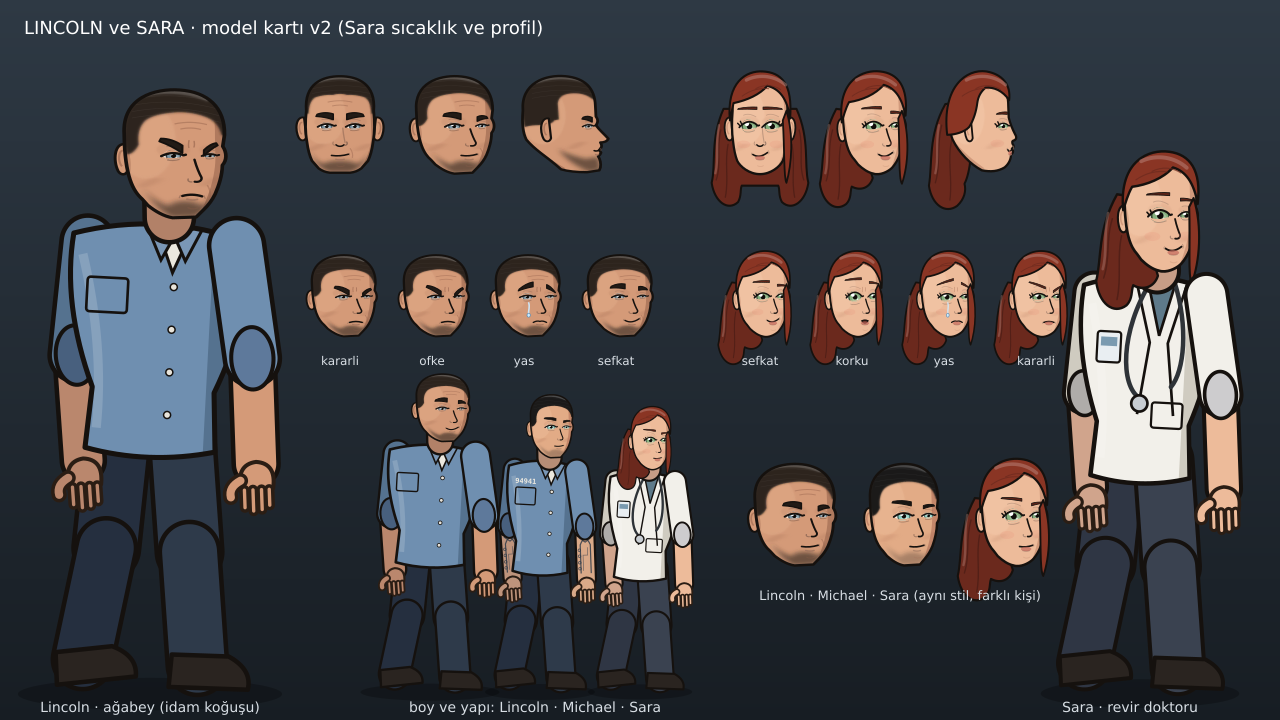
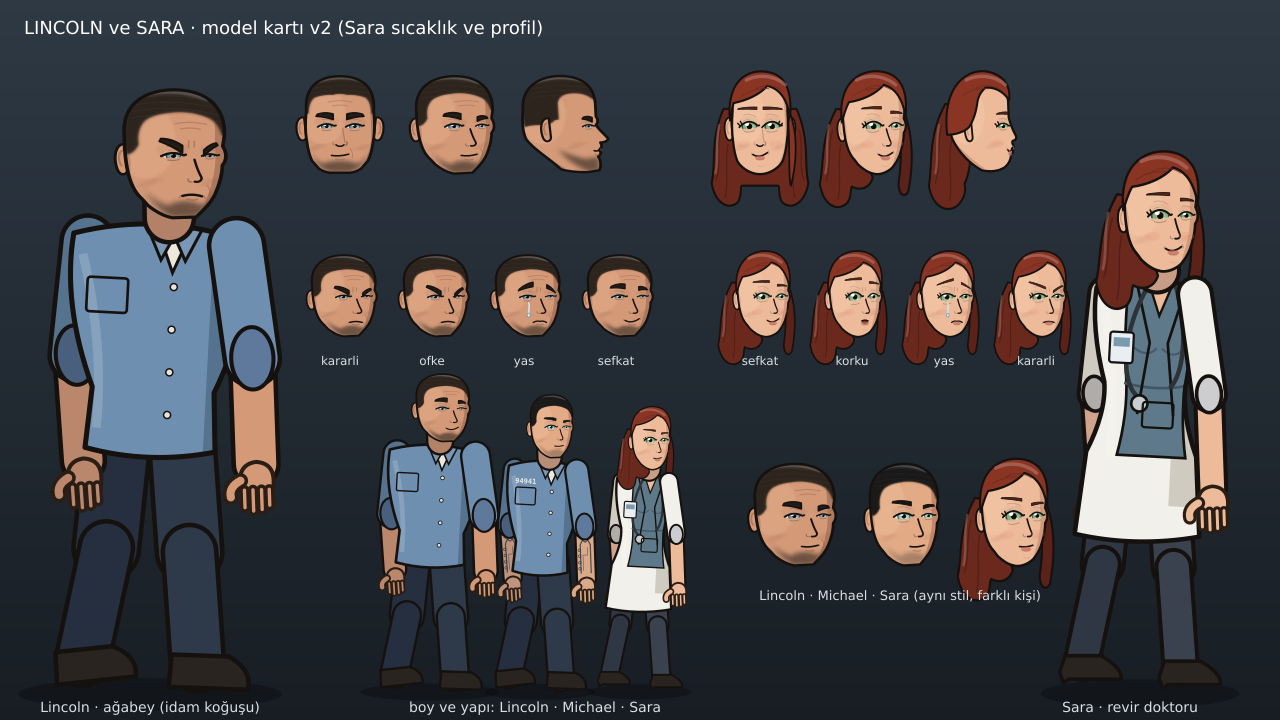
F3: Sara v3 (kadın bedeni, tam görünen yüz); prolog örgüsü onay bekliyor
Claude-Session: https://claude.ai/code/session_01ADfUkHjNCYiLn7Tbp4iBbS

diff --git a/projeler/michael-scofield/karakter.py b/projeler/michael-scofield/karakter.py
@@ -295,13 +295,19 @@ def figur2(spec, ifade="odak", poz=None, plan=False, numara_goster=True, el_on_e
     g = math.radians(p["govde"])
     def tw(lx, ly):  # gövde yerelinden dünyaya (pelvis merkezli, yukarı -y)
         return hip[0] + lx * math.cos(g) - ly * math.sin(g), hip[1] + lx * math.sin(g) + ly * math.cos(g)
-    sh_on, sh_ark = tw(64 * br * s, -TOR + 14 * s), tw(-60 * br * s, -TOR + 18 * s)
+    FEM = spec.get("female"); fo = 0.8 if FEM else 1.0      # omuz genişliği
+    fk = 0.78 if FEM else 1.0; fb = 0.7 if FEM else 1.0        # kol / bacak kalınlığı
+    sh_on, sh_ark = tw(64 * br * s * fo, -TOR + 14 * s), tw(-60 * br * s * fo, -TOR + 18 * s)
     neck = tw(8 * s, -TOR - 10 * s)
     o = [f'<ellipse cx="0" cy="4" rx="{110*br*s:.0f}" ry="16" fill="#000" opacity="0.25"/>']
     def bacak(side, t, k, ton):
-        hx, hy = tw(side * 26 * br * s, 0)
+        hx, hy = tw(side * 26 * br * s * (1.12 if FEM else 1.0), 0)
         kx, ky = _uc(hx, hy, t, TH); ax, ay = _uc(kx, ky, t - k, SN)
-        out = _seg((hx, hy), (kx, ky), 60 * s, ton) + _seg((kx, ky), (ax, ay), 54 * s, ton)
+        out = _seg((hx, hy), (kx, ky), 60 * s * fb, ton) + _seg((kx, ky), (ax, ay), 48 * s * fb, ton)
+        if FEM:  # kadın ayakkabısı: ince, sivri burunlu, alçak topuk
+            out += (f'<path d="M{ax-18*s:.0f},{ay-8:.0f} L{ax+22*s:.0f},{ay-8:.0f} Q{ax+46*s:.0f},{ay+6:.0f} {ax+44*s:.0f},{ay+18:.0f} L{ax-14*s:.0f},{ay+18:.0f} L{ax-20*s:.0f},{ay+22:.0f} L{ax-24*s:.0f},{ay+10:.0f} Z" '
+                    f'fill="{spec["shoe"]}" stroke="{INK}" stroke-width="4" stroke-linejoin="round"/>')
+            return out
         out += (f'<path d="M{ax-26*s:.0f},{ay-10:.0f} L{ax+30*s:.0f},{ay-10:.0f} Q{ax+54*s:.0f},{ay+2:.0f} {ax+50*s:.0f},{ay+22:.0f} L{ax-28*s:.0f},{ay+22:.0f} Z" '
                 f'fill="{spec["shoe"]}" stroke="{INK}" stroke-width="4.5" stroke-linejoin="round" transform="rotate({max(-25, min(25, (t-k)*0.5)):.0f} {ax:.0f} {ay:.0f})"/>')
         return out
@@ -323,11 +329,18 @@ def figur2(spec, ifade="odak", poz=None, plan=False, numara_goster=True, el_on_e
         return out
     # arka katmanlar
     o.append(bacak(-1, *p["bacak_arka"], shade(spec["pants"], 0.82)))
-    o.append(kol(sh_ark, *p["kol_arka"], 40 * s * br, sd, shade(sk, 0.88), p["el_arka"]))
+    o.append(kol(sh_ark, *p["kol_arka"], 40 * s * br * fk, sd, shade(sk, 0.88), p["el_arka"]))
     o.append(bacak(1, *p["bacak_on"], spec["pants"]))
     # gövde: V biçimli, yerel koordinatta çizilip döndürülür
     W1, W2 = 72 * br * s, 50 * br * s
-    torso = (f"M{-W1:.0f},{-TOR+10*s:.0f} Q{-W1-8:.0f},{-TOR*0.6:.0f} {-W2:.0f},{-TOR*0.2:.0f} L{-W2-4:.0f},{20*s:.0f} "
+    if FEM:
+        W1 = 58 * s; Wb = 40 * s; Wk = 60 * s; ET = 86 * s     # omuz, bel, kalça, önlük eteği
+        W2 = Wb
+        torso = (f"M{-W1:.0f},{-TOR+12*s:.0f} Q{-W1-4:.0f},{-TOR*0.72:.0f} {-Wb-4:.0f},{-TOR*0.42:.0f} Q{-Wb:.0f},{-TOR*0.25:.0f} {-Wk:.0f},{-6*s:.0f} "
+                 f"L{-Wk-8:.0f},{ET:.0f} Q0,{ET+12*s:.0f} {Wk+10:.0f},{ET-4:.0f} L{Wk+2:.0f},{-6*s:.0f} Q{Wb+4:.0f},{-TOR*0.25:.0f} {Wb+6:.0f},{-TOR*0.42:.0f} "
+                 f"Q{W1+8:.0f},{-TOR*0.72:.0f} {W1:.0f},{-TOR+12*s:.0f} Q0,{-TOR-14*s:.0f} {-W1:.0f},{-TOR+12*s:.0f} Z")
+    else:
+      torso = (f"M{-W1:.0f},{-TOR+10*s:.0f} Q{-W1-8:.0f},{-TOR*0.6:.0f} {-W2:.0f},{-TOR*0.2:.0f} L{-W2-4:.0f},{20*s:.0f} "
              f"Q0,{34*s:.0f} {W2+6:.0f},{18*s:.0f} L{W2+2:.0f},{-TOR*0.2:.0f} Q{W1+10:.0f},{-TOR*0.6:.0f} {W1:.0f},{-TOR+10*s:.0f} "
              f"Q0,{-TOR-16*s:.0f} {-W1:.0f},{-TOR+10*s:.0f} Z")
     _VID[0] += 1; tid = f"v{_VID[0]}"
@@ -336,7 +349,12 @@ def figur2(spec, ifade="odak", poz=None, plan=False, numara_goster=True, el_on_e
     if spec.get("stripes"):
         for k in range(9): inner.append(f'<rect x="-200" y="{-TOR+20*s+k*28*s:.0f}" width="400" height="{10*s:.0f}" fill="{spec["stripes"]}" opacity="0.9"/>')
     elif spec.get("female"):
-        inner.append(f'<path d="M-4,{-TOR-8:.0f} L14,{-TOR+62*s:.0f} L32,{-TOR-8:.0f} Z" fill="{spec["under"]}" stroke="{INK}" stroke-width="3"/>'
+        bl = spec["under"]
+        inner.append(f'<path d="M-22,{-TOR-6:.0f} Q-26,{-TOR*0.7:.0f} -20,{-TOR*0.45:.0f} Q-16,{-TOR*0.25:.0f} -26,{-4*s:.0f} L50,{-4*s:.0f} Q42,{-TOR*0.25:.0f} 46,{-TOR*0.45:.0f} Q52,{-TOR*0.7:.0f} 48,{-TOR-6:.0f} Z" fill="{bl}" stroke="{INK}" stroke-width="3"/>'
+                     f'<path d="M-4,{-TOR-6:.0f} L13,{-TOR+40*s:.0f} L30,{-TOR-6:.0f}" fill="{spec["skin"]}" stroke="{INK}" stroke-width="2.6"/>'
+                     f'<path d="M-14,{-TOR*0.62:.0f} Q2,{-TOR*0.56:.0f} 12,{-TOR*0.62:.0f} M18,{-TOR*0.62:.0f} Q30,{-TOR*0.56:.0f} 42,{-TOR*0.62:.0f}" stroke="{shade(bl,0.75)}" stroke-width="2.4" fill="none"/>'
+                     f'<path d="M-22,{-TOR*0.42:.0f} Q12,{-TOR*0.38:.0f} 48,{-TOR*0.42:.0f}" stroke="{shade(bl,0.7)}" stroke-width="3" fill="none"/>')
+        inner.append(f'<path d="M-4,{-TOR-8:.0f} L14,{-TOR+62*s:.0f} L32,{-TOR-8:.0f} Z" fill="none" stroke="none"/>'
                      f'<path d="M-16,{-TOR-4:.0f} L4,{-TOR+70*s:.0f} L-6,{-TOR+150*s:.0f} M44,{-TOR-4:.0f} L24,{-TOR+70*s:.0f} L34,{-TOR+150*s:.0f}" fill="none" stroke="{INK}" stroke-width="3"/>'
                      f'<path d="M2,{-TOR+2:.0f} C-30,{-TOR+60:.0f} -26,{-TOR+120:.0f} -4,{-TOR+132:.0f} M28,{-TOR+2:.0f} C46,{-TOR+50:.0f} 44,{-TOR+100:.0f} 30,{-TOR+118:.0f}" stroke="#2E3338" stroke-width="5" fill="none" stroke-linecap="round"/>'
                      f'<circle cx="-4" cy="{-TOR+138:.0f}" r="9" fill="#C8CDD2" stroke="{INK}" stroke-width="3"/>'
@@ -357,7 +375,7 @@ def figur2(spec, ifade="odak", poz=None, plan=False, numara_goster=True, el_on_e
     hx, hy = _uc(*neck, 180 + p["govde"] * 0.3 + p["bas"] * 0.3, 70 * s)
     o.append(_seg(neck, (neck[0] + (hx - neck[0]) * 0.5, neck[1] + (hy - neck[1]) * 0.5), 44 * s, shade(sk, 0.84)))
     o.append(f'<g transform="translate({hx:.1f},{hy:.1f}) rotate({p["govde"]*0.4 + p["bas"]:.1f}) scale({0.62*s*(1.05 if child else 1):.3f})"><g transform="translate(0,{_boyun_ofset(spec)})">{kafa(spec, "3q", ifade)}</g></g>')
-    o.append(kol(sh_on, *p["kol_on"], 42 * s * br, sh, sk, p["el_on"], el_on_ek))
+    o.append(kol(sh_on, *p["kol_on"], 42 * s * br * fk, sh, sk, p["el_on"], el_on_ek))
     return "".join(o)
 
 POZLAR = {

diff --git a/projeler/michael-scofield/aday/yuzler.py b/projeler/michael-scofield/aday/yuzler.py
@@ -53,15 +53,16 @@ def _kadin_sac(view, hair, arka):
         dalga = {"front": "M-86,0 C-96,40 -84,70 -96,104 M-70,30 C-78,70 -68,100 -76,140 M86,0 C96,40 84,70 96,104 M70,30 C78,70 68,100 76,140",
                  "3q": "M-82,0 C-94,40 -84,70 -96,106 M-64,30 C-72,70 -62,104 -70,144",
                  "side": "M-84,-10 C-96,40 -86,74 -98,110 M-62,20 C-72,64 -60,100 -66,146"}[view]
-        return (f'<path d="{d}" fill="{hd}" stroke="{INK}" stroke-width="4.5" stroke-linejoin="round"/>'
+        uzak = ('<path d="M58,-70 C98,-10 96,70 84,128 C74,146 58,130 64,100 C70,60 70,0 50,-60 Z" '
+                f'fill="{shade(hd,0.85)}" stroke="{INK}" stroke-width="4.5" stroke-linejoin="round"/>') if view == "3q" else ""
+        return (uzak + f'<path d="{d}" fill="{hd}" stroke="{INK}" stroke-width="4.5" stroke-linejoin="round"/>'
                 f'<path d="{dalga}" stroke="{shade(hd,0.72)}" stroke-width="3" fill="none" opacity="0.8" stroke-linecap="round"/>'
                 f'<path d="M-90,-10 C-98,30 -90,60 -98,90" stroke="{hl}" stroke-width="5" fill="none" opacity="0.35" stroke-linecap="round"/>')
     d = {"front": "M-66,-20 C-74,-100 -30,-124 6,-122 C46,-120 72,-98 66,-24 C60,-66 42,-86 16,-92 C0,-74 -28,-62 -58,-56 C-62,-40 -64,-28 -66,-20 Z",
          "3q": "M-62,-16 C-72,-106 -14,-126 22,-122 C62,-118 84,-90 78,-30 C70,-68 54,-88 30,-94 C12,-74 -18,-62 -46,-58 C-54,-44 -58,-28 -62,-16 Z",
          "side": "M-72,10 C-84,-90 -30,-128 14,-122 C50,-116 68,-94 64,-62 C50,-82 30,-90 12,-88 C2,-80 -4,-70 -6,-56 C-8,-40 -14,-20 -24,-6 C-34,4 -54,10 -72,10 Z"}[view]
-    side_lock = {"front": "M58,-40 C74,10 70,70 58,110 C52,100 54,40 50,-20 Z",
-                 "3q": "M70,-40 C88,10 84,74 70,112 C62,100 66,40 62,-24 Z",
-                 "side": ""}[view]
+    side_lock = {"front": "M66,-34 C84,10 80,72 68,116 C62,104 66,44 62,-16 Z",
+                 "3q": "", "side": ""}[view]
     o = [f'<path d="{d}" fill="{hair}" stroke="{INK}" stroke-width="4.5" stroke-linejoin="round"/>']
     if side_lock: o.append(f'<path d="{side_lock}" fill="{hair}" stroke="{INK}" stroke-width="4" stroke-linejoin="round"/>')
     o.append(f'<path d="M-30,-104 C0,-118 34,-112 56,-94" stroke="{hl}" stroke-width="7" fill="none" opacity="0.45" stroke-linecap="round"/>'

diff --git a/projeler/michael-scofield/karar_gunlugu.md b/projeler/michael-scofield/karar_gunlugu.md
@@ -66,3 +66,10 @@ Her tur sonunda bir kayıt eklenir. **Ders** satırı zorunludur. Tekrarlayan de
 - Kullanıcı (Tur 9 sorusu): "Sara daha sıcak, çekici ve yan profilini iyileştir"; sıra → **prolog örgüsü + blok animatik** (mekânlar ondan önce).
 - Sara v2: kadın profili (yumuşak alın, küçük kalkık burun, dolgun dudak, yuvarlak çene), yanda saç kafatasını sarar, perçem yukarı, gözler büyük ve açık (goz_k 1.14, goz_h 0.86, kapak_ac 0.12), hacimli dalgalı saç + parlama, sıcak yanak tonu, belirgin dudak, kalın kirpik; varsayılan görünüşler "şefkat". `kartlar/model_yan_v2.png`.
 - Ders: Aynı yüz sistemini kadın karaktere taşırken profil (side) ayrı çizilmeli; genişlik ölçeği yetmez.
+
+## Tur 10 · 26.11.2026 18:10–18:35 · F4a prolog örgüsü v1 + Sara v3
+- Sunulan: `dokum/prolog.json` (5 çekim, ~21 sn + 3 sn başlık, anlamsal geçiş 4/4, dokum_kontrol GEÇTİ) ve `orgu/prolog_v1.md`.
+- Kullanıcı: örgü sorusuna cevap yerine "Sara'nın vücudu hâlâ kadın vücudu gibi olmamış; yüzü yarım, yüzü tam yap; çekici, sevecen durmalı". Ses sorusu yanıtsız → varsayım: blok animatikte yerel XTTS.
+- Sara v3: yüzü örten saç tutamları kaldırıldı/dışarı alındı (3/4'te uzak saç yüzün arkasında), `figur2` kadın bedeni (omuz ×0.8, bel 40, kalça 60, önlük kalçanın altına iner, kol ×0.78, bacak ×0.7, alçak topuklu sivri ayakkabı), açık önlük + bele oturan bluz.
+- Prolog örgüsü onayı bekliyor.
+- Ders: Kadın karakterde yalnız yüzü değiştirmek yetmez; omuz-bel-kalça oranı ve kıyafet kesimi silüeti belirler. Saç tutamı yüzün iç konturunu kesmemeli (yarım yüz algısı).
